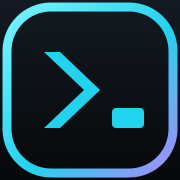
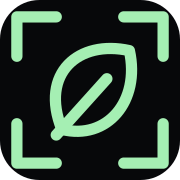
refactor: rename "Prompt Gallery" to "图种" across all files and update related content and styles

diff --git a/src/components/brand/logo-mark.tsx b/src/components/brand/logo-mark.tsx
@@ -1,27 +1,12 @@
-import { useId } from "react";
-
-/** 与 src/app/icon.svg 保持同一图形：画框里的提示符。 */
+/** 图种：取景框中的萌芽种子。几何与 src/app/icon.svg 保持一致。 */
 export function LogoMark({ className }: { className?: string }) {
-  const raw = useId().replaceAll(":", "");
-  const stroke = `${raw}-stroke`;
-  const fill = `${raw}-fill`;
-
   return (
     <svg aria-hidden="true" className={className} fill="none" viewBox="0 0 32 32">
-      <defs>
-        <linearGradient gradientUnits="userSpaceOnUse" id={stroke} x1="1" x2="31" y1="1" y2="31">
-          <stop stopColor="#7af3ff" />
-          <stop offset="0.55" stopColor="#22d3ee" />
-          <stop offset="1" stopColor="#a78bfa" />
-        </linearGradient>
-        <linearGradient gradientUnits="userSpaceOnUse" id={fill} x1="16" x2="16" y1="2" y2="30">
-          <stop stopColor="#141a22" />
-          <stop offset="1" stopColor="#07080a" />
-        </linearGradient>
-      </defs>
-      <rect fill={`url(#${fill})`} height="29.7" rx="8" stroke={`url(#${stroke})`} strokeWidth="1.7" width="29.7" x="1.15" y="1.15" />
-      <path d="M7.7 9.15 14.55 16 7.7 22.85 10.55 22.85 17.4 16 10.55 9.15Z" fill="#22d3ee" />
-      <rect fill="#22d3ee" height="3.3" rx="0.7" width="5.5" x="19.15" y="19.55" />
+      <g stroke="currentColor" strokeLinecap="round" strokeLinejoin="round" strokeWidth="2">
+        <path d="M3 10V3h7m12 0h7v7m0 12v7h-7m-12 0H3v-7" />
+        <path d="M11 23C7 13 14 7 23 9c2 9-4 16-12 14Z" />
+        <path d="m10 24 9-10" />
+      </g>
     </svg>
   );
 }

diff --git a/src/app/(public)/about/page.tsx b/src/app/(public)/about/page.tsx
@@ -3,15 +3,15 @@ import type { Metadata } from "next";
 import { Eyebrow } from "@/components/ui/card";
 
 export const metadata: Metadata = {
-  title: "关于 · Prompt Gallery",
-  description: "Prompt Gallery 是面向公众的图片生成提示词灵感库。",
+  title: "关于 · 图种",
+  description: "图种 是面向公众的图片生成提示词灵感库。",
 };
 
 const points = [
   {
     icon: Eye,
     title: "按画面找写法",
-    body: "Prompt Gallery 收集可公开浏览的图片生成提示词和效果图，方便按画面找到写法，再复制到自己的生成工具里使用。",
+    body: "图种 收集可公开浏览的图片生成提示词和效果图，方便按画面找到写法，再复制到自己的生成工具里使用。",
   },
   {
     icon: FileText,
@@ -35,6 +35,10 @@ export default function AboutPage() {
     <main className="mx-auto w-full max-w-4xl flex-1 px-4 pt-10 pb-16 md:px-6 md:pt-14">
       <Eyebrow>About</Eyebrow>
       <h1 className="mt-3 text-3xl font-semibold tracking-tight md:text-4xl">关于与来源说明</h1>
+      <p className="mt-5 max-w-2xl text-base leading-8 text-muted">
+        图种，读作“图 zhǒng”。每一条提示词，都是一颗能长出画面的种子。
+        我们收集图片与背后的写法，让灵感被看见，也能被带走。种下一句，长出想象。
+      </p>
       <ul className="mt-10 grid gap-4 sm:grid-cols-2">
         {points.map(({ icon: Icon, title, body }) => (
           <li className="rounded-xl border border-border bg-surface/60 p-5" key={title}>

diff --git a/src/app/globals.css b/src/app/globals.css
@@ -9,8 +9,8 @@
   --border-strong: #2c323d;
   --foreground: #e6e8eb;
   --muted: #8a919e;
-  --accent: #22d3ee;
-  --accent-2: #a78bfa;
+  --accent: #a5efb3;
+  --accent-2: #73c9ac;
   --on-accent: #041014;
   --danger: #f87171;
   --success: #4ade80;
@@ -44,8 +44,8 @@ html {
 body {
   position: relative;
   background:
-    radial-gradient(1200px 480px at 50% -160px, rgb(34 211 238 / 0.12), transparent 70%),
-    radial-gradient(900px 420px at 85% -120px, rgb(167 139 250 / 0.1), transparent 70%),
+    radial-gradient(1200px 480px at 50% -160px, rgb(165 239 179 / 0.12), transparent 70%),
+    radial-gradient(900px 420px at 85% -120px, rgb(115 201 172 / 0.1), transparent 70%),
     var(--background);
   background-repeat: no-repeat;
   color: var(--foreground);
@@ -64,7 +64,7 @@ body::before {
 }
 
 ::selection {
-  background: rgb(34 211 238 / 0.3);
+  background: rgb(165 239 179 / 0.3);
   color: var(--foreground);
 }
 
@@ -148,10 +148,10 @@ dialog::backdrop {
 
 .glow-card:hover,
 .glow-card:focus-within {
-  border-color: rgb(34 211 238 / 0.45);
+  border-color: rgb(165 239 179 / 0.45);
   box-shadow:
-    0 0 0 1px rgb(34 211 238 / 0.15),
-    0 8px 32px -12px rgb(34 211 238 / 0.35);
+    0 0 0 1px rgb(165 239 179 / 0.15),
+    0 8px 32px -12px rgb(165 239 179 / 0.35);
 }
 
 @keyframes fade-in {

diff --git a/src/app/(public)/page.tsx b/src/app/(public)/page.tsx
@@ -29,7 +29,7 @@ export async function generateMetadata({
 }): Promise<Metadata> {
   const params = parseGalleryParams(await searchParams);
   return {
-    title: "图片库 · Prompt Gallery",
+    title: "图片库 · 图种",
     description: "浏览效果图，找到感兴趣的内容，查看提示词并复制使用。",
     robots: isFiltered(params) ? { index: false, follow: true } : { index: true, follow: true },
   };
@@ -72,9 +72,9 @@ export default async function HomePage({
         query={params.q || undefined}
       />
       <section className="max-w-3xl">
-        <Eyebrow>Prompt Gallery · 图片生成灵感库</Eyebrow>
+        <Eyebrow>图种 · 图片生成 Prompt 灵感库</Eyebrow>
         <h1 className="mt-4 text-3xl leading-tight font-semibold tracking-tight md:text-5xl">
-          <span className="text-gradient">找到画面，复制提示词。</span>
+          <span className="text-gradient">种下一句，长出想象。</span>
         </h1>
         <p className="mt-4 max-w-2xl text-[15px] leading-7 text-muted">
           每条内容都附带原文 Prompt、模型与参数。看中哪张图，打开就能复制使用。

diff --git a/src/components/layout/site-chrome.tsx b/src/components/layout/site-chrome.tsx
@@ -9,9 +9,9 @@ import { SiteNav } from "./site-nav";
 export function BrandMark({ href = "/" }: { href?: string }) {
   return (
     <Link className="group inline-flex shrink-0 items-center gap-2.5" href={href}>
-      <LogoMark className="size-8 drop-shadow-[0_0_12px_rgb(34_211_238/0.35)]" />
-      <span className="text-[15px] font-semibold tracking-tight whitespace-nowrap">
-        Prompt <span className="font-medium text-accent">Gallery</span>
+      <LogoMark className="size-8 text-accent" />
+      <span className="text-xl font-semibold tracking-[0.12em] whitespace-nowrap">
+        图种
       </span>
     </Link>
   );
@@ -55,7 +55,7 @@ export function SiteFooter() {
         <div>
           <BrandMark />
           <p className="mt-3 max-w-sm text-sm leading-6 text-muted">
-            图片生成提示词灵感库。浏览效果图，复制原文提示词，在你的工具里复现。
+            种下一句，长出想象。浏览效果图，发现并复制提示词，在你的生成工具里探索。
           </p>
         </div>
         <div className="text-sm">

diff --git a/src/app/(public)/collections/[slug]/page.tsx b/src/app/(public)/collections/[slug]/page.tsx
@@ -34,11 +34,11 @@ async function resolve({ params, searchParams }: Context) {
 export async function generateMetadata(context: Context): Promise<Metadata> {
   const { page, collection } = await resolve(context);
   if (!collection) {
-    return { title: "未找到 · Prompt Gallery" };
+    return { title: "未找到 · 图种" };
   }
   const origin = new URL(getEnv().APP_URL).origin;
   return {
-    title: `${collection.title} · 专题合集 · Prompt Gallery`,
+    title: `${collection.title} · 专题合集 · 图种`,
     description: collection.description ?? `${collection.title}，共 ${collection.total} 条提示词。`,
     alternates: { canonical: `${origin}/collections/${collection.slug}` },
     robots: page > 1 ? { index: false, follow: true } : undefined,

diff --git a/src/app/(public)/prompts/[slug]/page.tsx b/src/app/(public)/prompts/[slug]/page.tsx
@@ -26,12 +26,12 @@ function describe(prompt: { summary: string | null; promptText: string }) {
 export async function generateMetadata({ params }: Context): Promise<Metadata> {
   const prompt = await getPublishedPromptCached((await params).slug);
   if (!prompt) {
-    return { title: "未找到 · Prompt Gallery" };
+    return { title: "未找到 · 图种" };
   }
   const origin = new URL(getEnv().APP_URL).origin;
   const description = describe(prompt);
   return {
-    title: `${prompt.title} · Prompt Gallery`,
+    title: `${prompt.title} · 图种`,
     description,
     alternates: { canonical: `${origin}/prompts/${prompt.slug}` },
     openGraph: {

diff --git a/src/features/prompts/components/lightbox.tsx b/src/features/prompts/components/lightbox.tsx
@@ -162,7 +162,7 @@ export function Lightbox({ images, title }: { images: Image[]; title: string }) 
               className={cn(
                 "relative size-16 shrink-0 overflow-hidden rounded-lg border bg-surface-2 transition-colors focus-visible:outline-none focus-visible:ring-2 focus-visible:ring-accent/60",
                 imageIndex === index
-                  ? "border-accent shadow-[0_0_0_1px_rgb(34_211_238/0.4)]"
+                  ? "border-accent shadow-[0_0_0_1px_rgb(165_239_179/0.4)]"
                   : "border-border opacity-70 hover:opacity-100",
               )}
               key={image.id}

diff --git a/src/features/prompts/components/prompt-block.tsx b/src/features/prompts/components/prompt-block.tsx
@@ -60,7 +60,7 @@ export function PromptBlock({
       aria-label={label}
       className={cn(
         "overflow-hidden rounded-xl border bg-[#0a0c10]",
-        emphasis ? "border-accent/30 shadow-[0_0_0_1px_rgb(34_211_238/0.06),0_12px_40px_-16px_rgb(34_211_238/0.35)]" : "border-border",
+        emphasis ? "border-accent/30 shadow-[0_0_0_1px_rgb(165_239_179/0.06),0_12px_40px_-16px_rgb(165_239_179/0.35)]" : "border-border",
       )}
     >
       <header className="flex items-center justify-between gap-3 border-b border-border bg-surface/60 px-3 py-2">

diff --git a/src/app/layout.tsx b/src/app/layout.tsx
@@ -8,8 +8,8 @@ getEnv();
 export const runtime = "nodejs";
 
 export const metadata: Metadata = {
-  title: "Prompt Gallery",
-  description: "面向公众开放的图片生成 Prompt 灵感库。",
+  title: "图种",
+  description: "图种，图片生成 Prompt 灵感库。种下一句，长出想象。浏览效果图，发现并复制提示词。",
 };
 
 export const viewport: Viewport = {

diff --git a/src/app/(public)/collections/page.tsx b/src/app/(public)/collections/page.tsx
@@ -10,7 +10,7 @@ import { getDatabase } from "@/server/db/client";
 export const dynamic = "force-dynamic";
 
 export const metadata: Metadata = {
-  title: "专题合集 · Prompt Gallery",
+  title: "专题合集 · 图种",
   description: "按主题整理的图片生成提示词合集。",
 };
 

diff --git a/src/app/admin/(protected)/page.tsx b/src/app/admin/(protected)/page.tsx
@@ -26,7 +26,7 @@ import { formatDateTime, formatPercent } from "@/shared/format";
 export const dynamic = "force-dynamic";
 
 export const metadata: Metadata = {
-  title: "概览 · Prompt Gallery",
+  title: "概览 · 图种",
   robots: { index: false, follow: false },
 };
 
